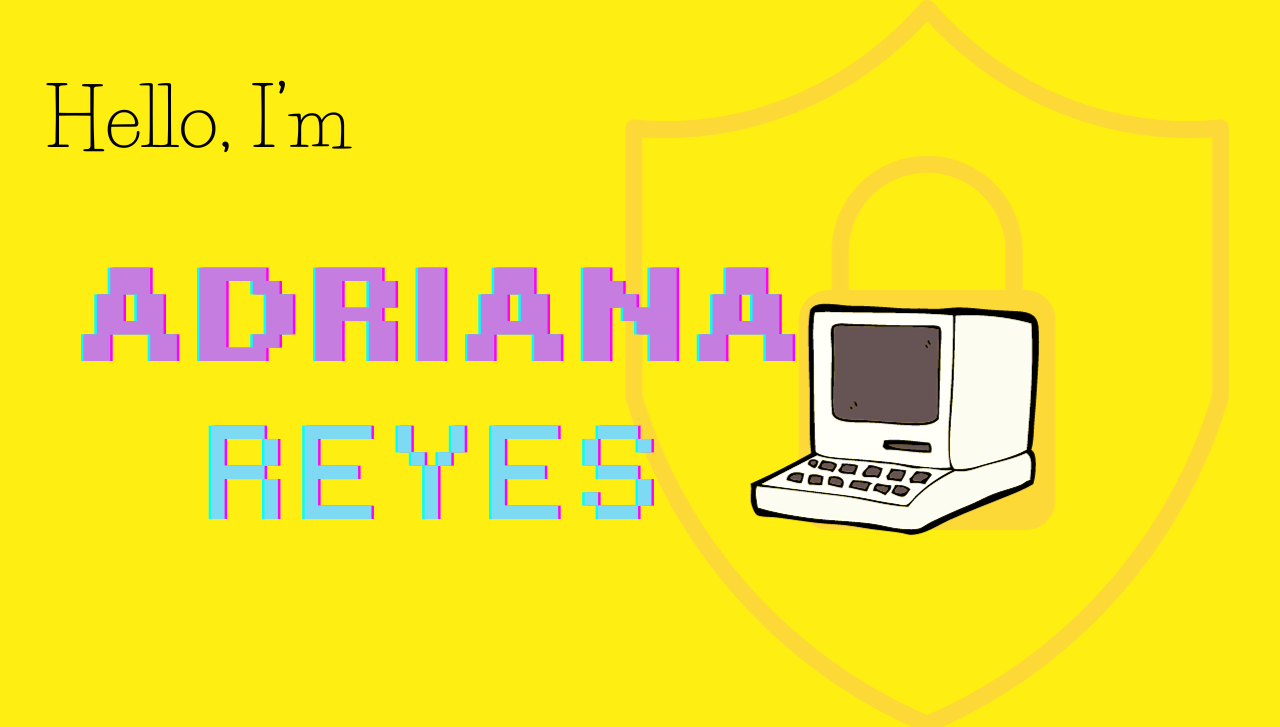
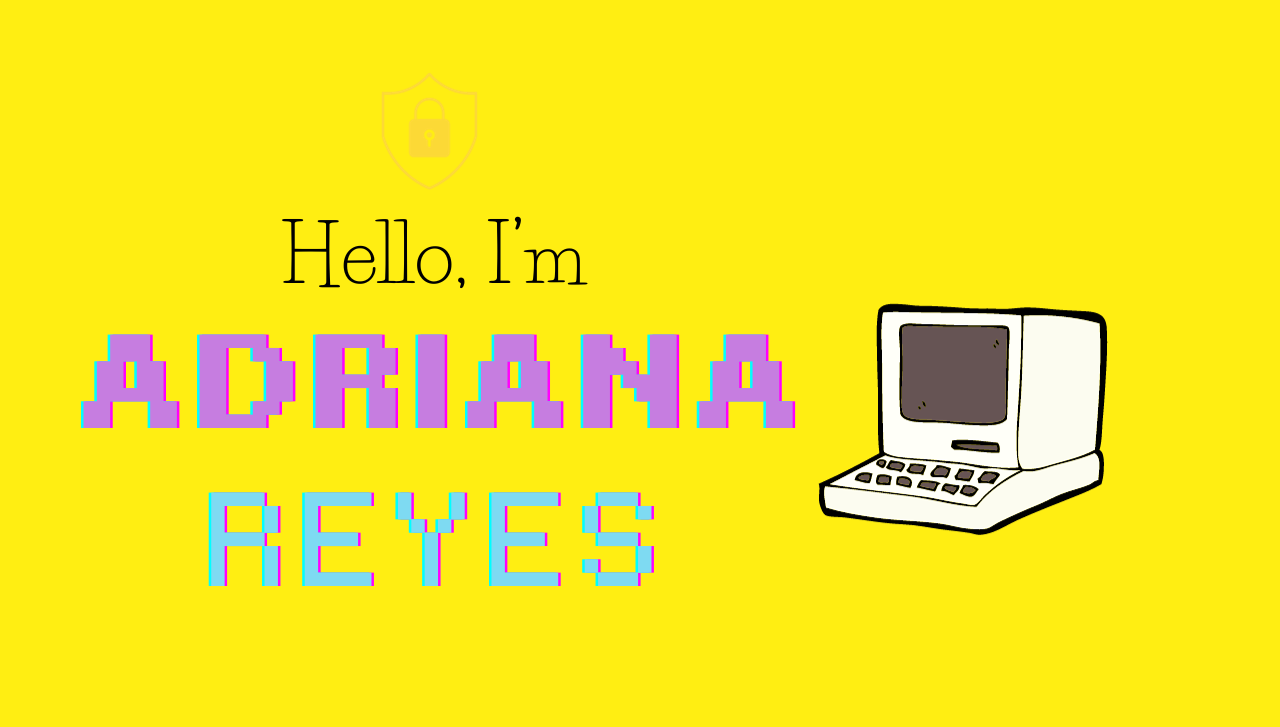
segundo cambio

diff --git a/index.html b/index.html
@@ -5,31 +5,34 @@
     <meta charset="UTF-8">
     <meta name="viewport" content="width=device-width, initial-scale=1.0">
     <title>CV Adrian Reyes</title>
-    <link rel="stylesheet" href="./assets/CSS/style.css">
+    <link rel="stylesheet" href="../assets/CSS/style.css">
 </head>
 
 <body>
     <!--header-->
     <header class="header">
-        <div class="header-content container">
-            <div></div>
+        <div class="header-imagen">
         </div>
     </header>
-    <!--seccion de navegacion-->
-    <div class="menu conteiner">
-        <a href="#" class="logo">logo</a>
-        <input type="checkbox" id="menu">
-        <label for="menu">
-            <img src="" class="menu-icono" alt="menu">
-        </label>
-        <nav class="navbar">
-            <ul>
-                <li><a href="#inicio">Inicio</a></li>
-                <li><a href="#perfil">Perfil Profesional</a></li>
-                <li><a href="#experiencia">Experiencia Laboral</a></li>
-                <li><a href="#proyectos">Proyectos Realizados</a></li>
-            </ul>
-        </nav>
+
+    <div class="back">
+        <!--seccion de navegacion-->
+        <div class="menu-conteiner">
+            <a href="#" class="logo">logo</a>
+            <input type="checkbox" id="menu">
+            <label for="menu">
+                <img src="./assets/img/menu.png" class="menu-icono" alt="menu">
+            </label>
+            <!--Navbar-->
+            <nav class="navbar">
+                <ul>
+                    <li><a href="#inicio">Inicio</a></li>
+                    <li><a href="#perfil">Perfil Profesional</a></li>
+                    <li><a href="#experiencia">Experiencia Laboral</a></li>
+                    <li><a href="#proyectos">Proyectos Realizados</a></li>
+                </ul>
+            </nav>
+        </div>
     </div>
     </header>
 </body>

diff --git a/assets/CSS/style.css b/assets/CSS/style.css
@@ -4,12 +4,23 @@
     border: 0;
 }
 
-.header{
-    padding: 80px;
-    background-image: url("../img/Header.png");
-    background-size: cover;
-    width: 100%;
-    height: 100%;
-    background-position: center;
-    }
+body{
+    background-color: hsl(0, 0%, 94%);
+}
 
+.header-imagen{
+    background-image: url("../img/Header.png");
+    width: 180vh;
+    height: 99vh;
+}
+
+.menu{
+    position: absolute;
+    top: 0;
+    left: 0;
+    right: 0;
+    display: flex;
+    align-items: center;
+    justify-content: space-between;
+    z-index: 1000;
+} 
